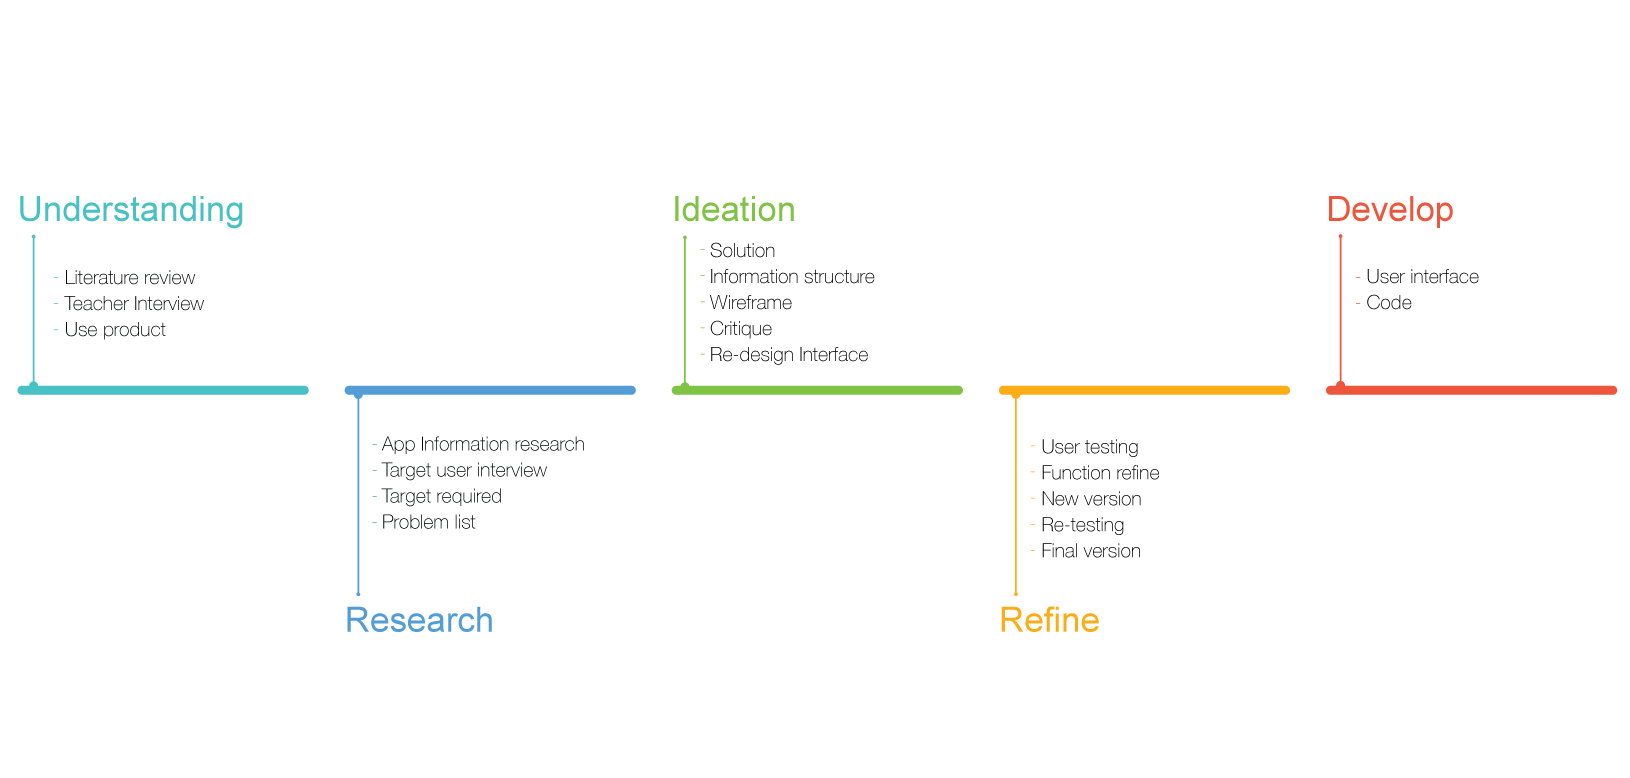
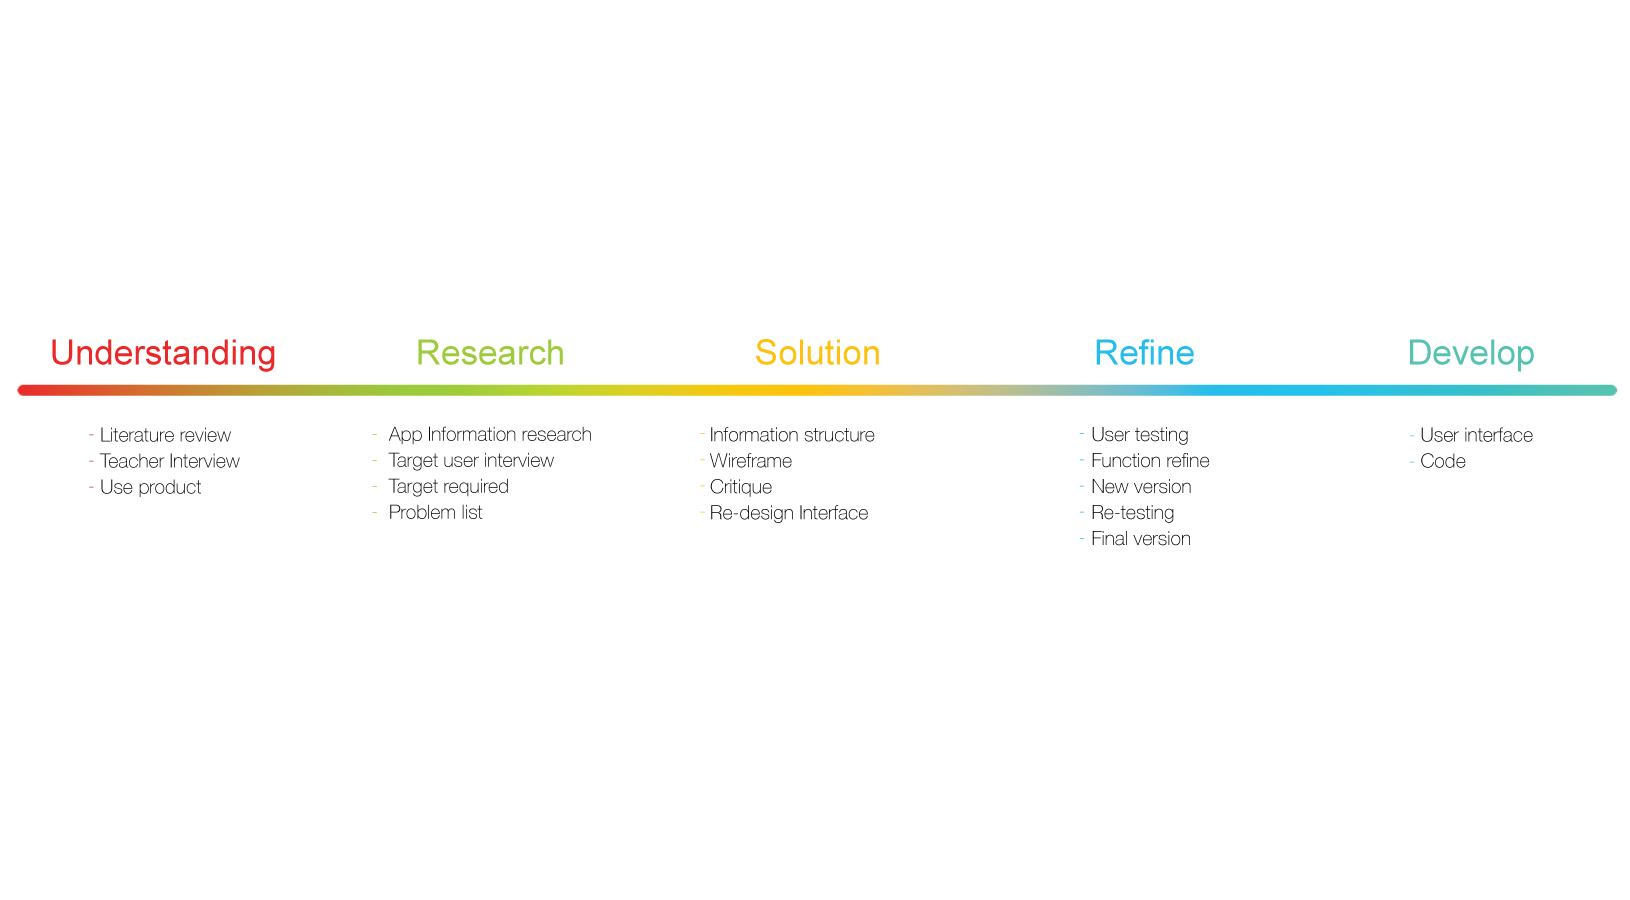
img

diff --git a/portfolio-seeword.html b/portfolio-seeword.html
@@ -50,8 +50,7 @@
 		        <div class="design_ui"><span>What problems we have?</span></div>
 		        <div class="design_img"><img src="img/seeword2.png"></div>
 		        <div class="number_box nb">2</div>
-		        <div class="design_title">Ideation</div>
-		        <div class="design_ui"><span>Solution</span></div>
+		        <div class="design_title">Solution</div>
 		        <div class="design_img"><img src="img/seeword5.png"></div>
 		        <div class="design_ui"><span>Information structure</span></div>
 		        <div class="design_img"><img src="img/seeword3.png"></div>
@@ -61,7 +60,7 @@
 		        <div class="design_title">Refine</div>
 		        <div class="design_img"><img src="img/seeword6.png"></div>
 		        <div class="number_box nb">4</div>
-		        <div class="design_title">Final Phototype</div>
+		        <div class="design_title">Final Prototype</div>
 	            <div class="design_img"><img src="img/seeword1.jpg"></div>
 	        </div>
 	        <div class="part part_5">    

diff --git a/portfolio-sohufilm.html b/portfolio-sohufilm.html
@@ -38,8 +38,8 @@
 	    	<div class="title_inside">SoHu Film Website</div>
 	    	<div class="title_line"></div>
 	        <div class="web_link"><a href="http://film.sohu.com" target="_Blank">Live:  www.film.sohu.com</a></div>
-	        <div class="design_ui"><span>Provide a better online <em>movie-going experience</em></span></div>
-		        <div class="design_p"><span></span></div>
+	        <div class="design_ui"><span>Provide a better online <em>Movie-Going EXPERIENCE</em></span></div>
+		        <div class="design_p"><span>SoHu Film Website is a website which provided premium movies. Early in the project, I responsible for user research and imporve the user experience. Later, I responsible for interaction design and front-end program.</span></div>
 	        </div>
 	       <div class="part part_2">
 	        <div class="title_inside">DESIGN PROCESS</div>
